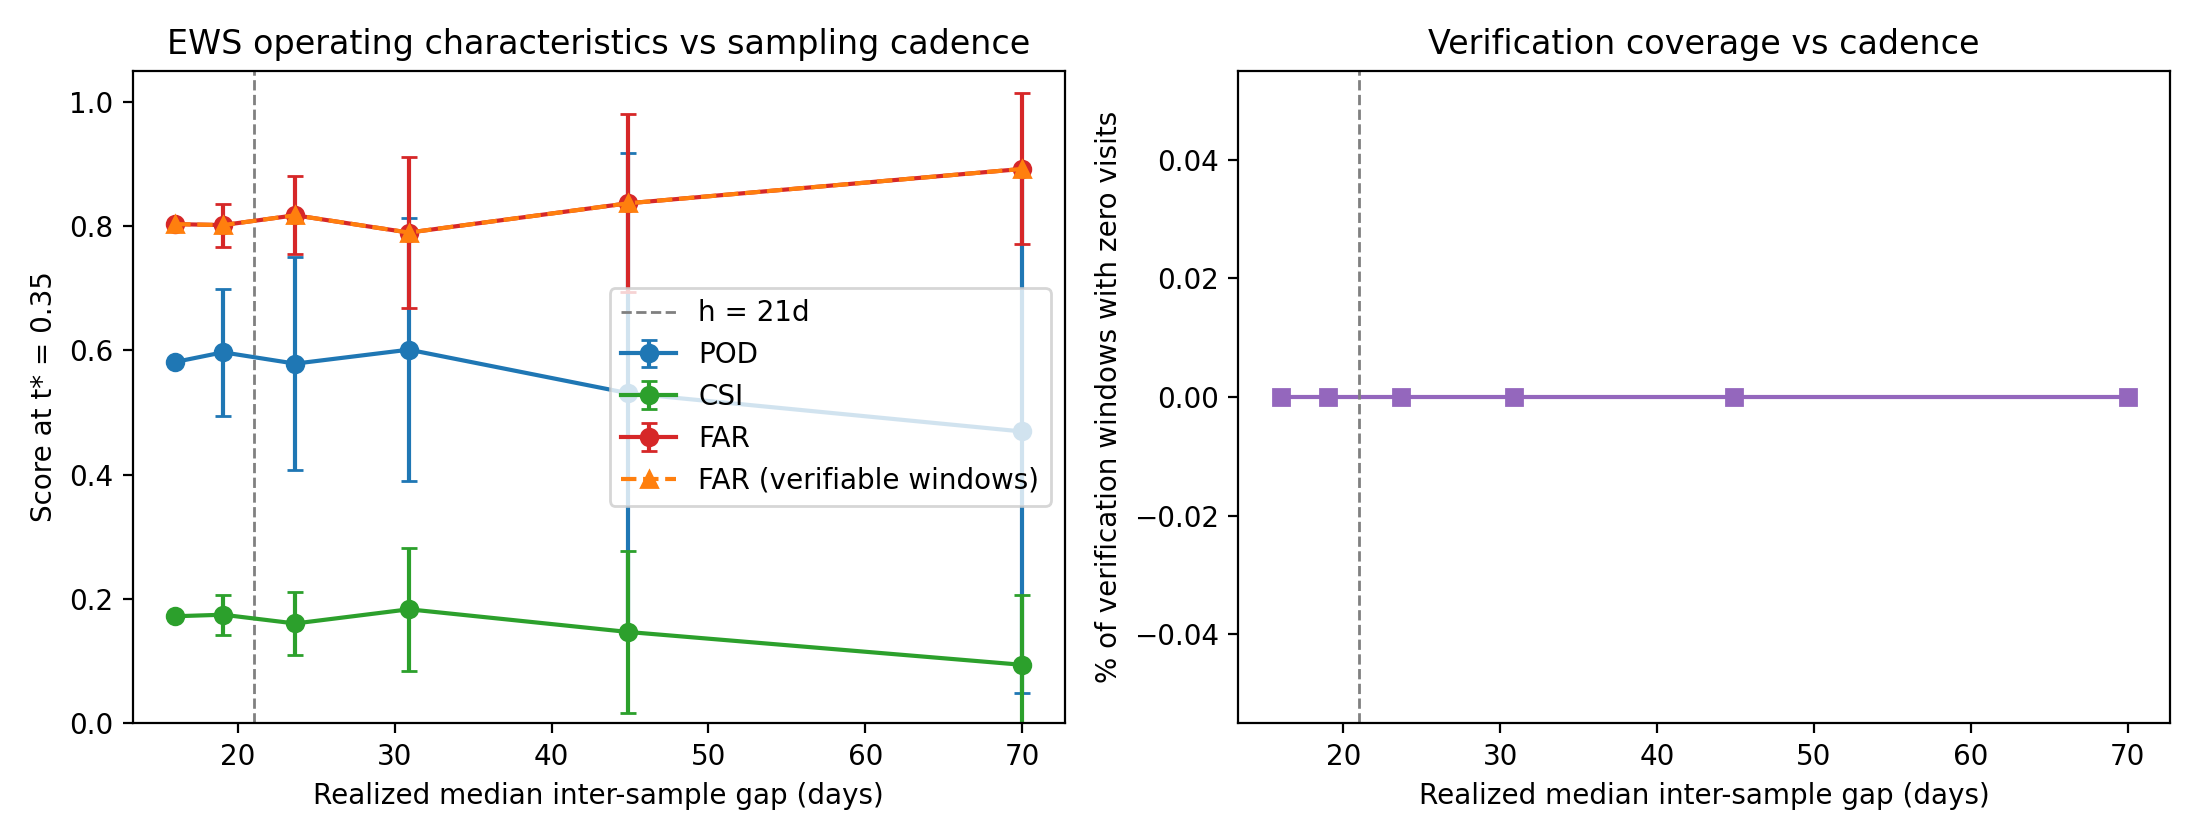
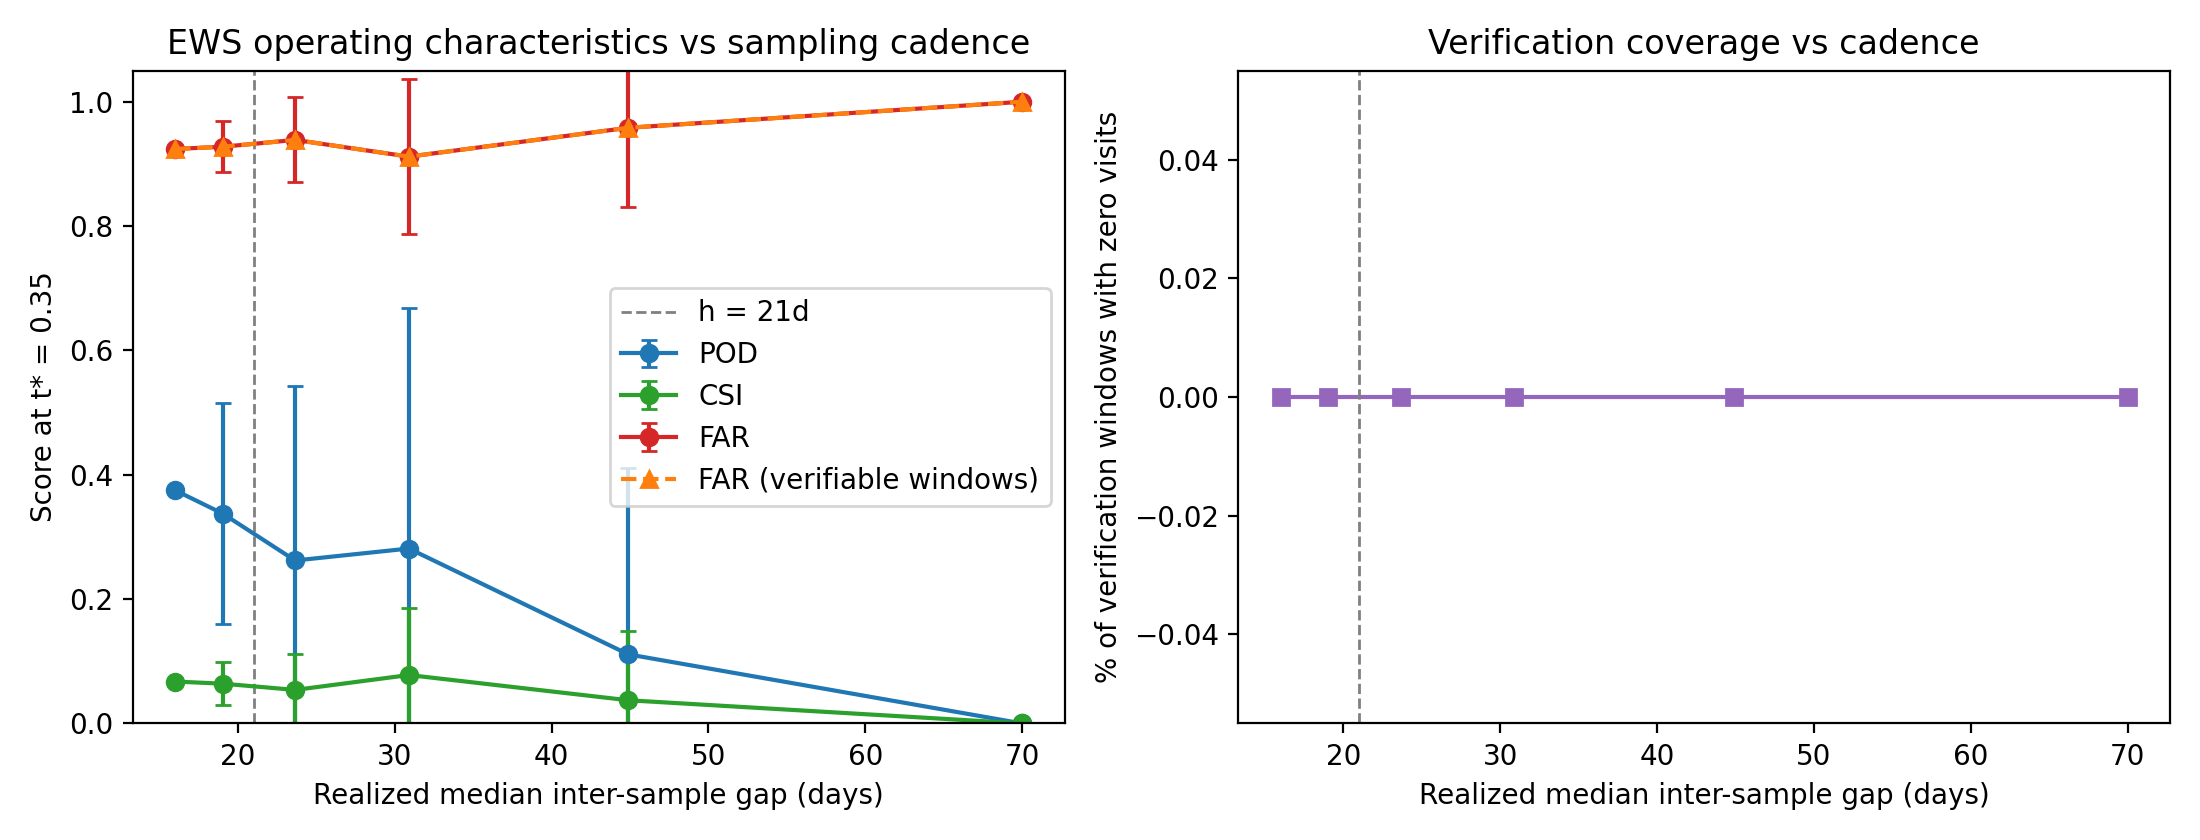
Rerun remaining LIS analyses on corrected 2024; audit wording fixes (casts, post hoc p, labels)
Claude-Session: https://claude.ai/code/session_019qugKZoFUV2rvdqeagrEFM

diff --git a/src/models/station_specific_models.py b/src/models/station_specific_models.py
@@ -152,7 +152,7 @@ _p_te_all, _y_te_all = global_probs(test)
 print(f"Global model fitted on {len(Xg_tr):,} train rows "
       f"({yg_tr.mean()*100:.1f}% bloom). "
       f"Global test AUC = {roc_auc_score(_y_te_all, _p_te_all):.4f} "
-      f"(pipeline reference ~0.814).")
+      f"(pipeline reference 0.590, notes/S1_NUMBERS_SHEET.md).")
 
 # ---------------------------------------------------------------------------
 # 5. Per-station evaluation
@@ -212,7 +212,7 @@ for station in WESTERN_STATIONS:
     print(f"    @best : P={A_best['precision']:.3f} R={A_best['recall']:.3f} "
           f"F1={A_best['f1']:.3f} AUC={A_best['auc']:.3f} "
           f"(TP={A_best['tp']} FP={A_best['fp']} FN={A_best['fn']})")
-    print(f"    @0.60 : P={A_60['precision']:.3f} R={A_60['recall']:.3f} "
+    print(f"    @0.47 : P={A_60['precision']:.3f} R={A_60['recall']:.3f} "
           f"F1={A_60['f1']:.3f} "
           f"(TP={A_60['tp']} FP={A_60['fp']} FN={A_60['fn']})")
 
@@ -229,7 +229,7 @@ for station in WESTERN_STATIONS:
     print(f"    @best : P={B_best['precision']:.3f} R={B_best['recall']:.3f} "
           f"F1={B_best['f1']:.3f} AUC={B_best['auc']:.3f} "
           f"(TP={B_best['tp']} FP={B_best['fp']} FN={B_best['fn']})")
-    print(f"    @0.60 : P={B_60['precision']:.3f} R={B_60['recall']:.3f} "
+    print(f"    @0.47 : P={B_60['precision']:.3f} R={B_60['recall']:.3f} "
           f"F1={B_60['f1']:.3f} "
           f"(TP={B_60['tp']} FP={B_60['fp']} FN={B_60['fn']})")
 
@@ -304,9 +304,9 @@ print("CONFUSION MATRIX DETAIL  (test 2023-2025)")
 print("=" * 72)
 print(f"{'Stn':>4} {'n+':>3} {'n':>4} | "
       f"{'A@best':>8}  {'TP':>3} {'FP':>3} {'FN':>3} | "
-      f"{'A@0.60':>8}  {'TP':>3} {'FP':>3} {'FN':>3} | "
+      f"{'A@0.47':>8}  {'TP':>3} {'FP':>3} {'FN':>3} | "
       f"{'B@best':>8}  {'TP':>3} {'FP':>3} {'FN':>3} | "
-      f"{'B@0.60':>8}  {'TP':>3} {'FP':>3} {'FN':>3}")
+      f"{'B@0.47':>8}  {'TP':>3} {'FP':>3} {'FN':>3}")
 print("-" * 100)
 for st in WESTERN_STATIONS:
     if st not in per_station:
@@ -351,7 +351,7 @@ print("COMBINED ACROSS WESTERN STATIONS  (pooled test rows)")
 print("=" * 72)
 print(f"{'Approach':<42} {'Prec':>6} {'Rec':>6} {'F1':>6} {'TP':>4} {'FP':>4} {'FN':>4}")
 print("-" * 72)
-print(f"{'Global model @0.60 (western subset)':<42} "
+print(f"{'Global model @0.47 (western subset)':<42} "
       f"{g_60['precision']:>6.3f} {g_60['recall']:>6.3f} {g_60['f1']:>6.3f} "
       f"{g_60['tp']:>4} {g_60['fp']:>4} {g_60['fn']:>4}")
 print(f"{'Strategy A: station-only @ station-best t':<42} "
@@ -372,8 +372,8 @@ for st in WESTERN_STATIONS:
     if st not in per_station:
         continue
     r = per_station[st]
-    for strat, key in [('A@best', 'A_best'), ('A@0.60', 'A_60'),
-                       ('B@best', 'B_best'), ('B@0.60', 'B_60')]:
+    for strat, key in [('A@best', 'A_best'), ('A@0.47', 'A_60'),
+                       ('B@best', 'B_best'), ('B@0.47', 'B_60')]:
         m = r[key]
         if m['precision'] > 0.50 and m['recall'] > 0.40:
             hits.append((st, strat, m['precision'], m['recall'], m['f1']))
@@ -389,8 +389,8 @@ else:
         if st not in per_station:
             continue
         r = per_station[st]
-        for strat, key in [('A@best', 'A_best'), ('A@0.60', 'A_60'),
-                           ('B@best', 'B_best'), ('B@0.60', 'B_60')]:
+        for strat, key in [('A@best', 'A_best'), ('A@0.47', 'A_60'),
+                           ('B@best', 'B_best'), ('B@0.47', 'B_60')]:
             m = r[key]
             if m['recall'] > 0.40:
                 cand.append((m['precision'], st, strat, m['recall'], m['f1']))

diff --git a/notes/SCIENTIFIC_METHOD.md b/notes/SCIENTIFIC_METHOD.md
@@ -1049,4 +1049,5 @@ exactly from `final_evaluation_threshold_sweep.py`):
 - **Layout:** two loop runs at once, 28 tanks (each culture gets its own arm A and 2 pilot tanks; 23 if both screens pick the same culture). Updated: `00_CONTROL_LOOP.md`, `01_BUBBLES.md`, `03_PEROXIDE_BAG.md`, `PROCEDURES.md`, `MATERIALS_LIST.md`, Form 3; `02`, `04`, `05` carry a "Dropped" banner.
 - **Results:** none yet (no bench work has started).
 
-**2024 put on the lab scale (2026-10-02).** DEEP (M. Lyman) sent 2024 - Jul 2026 profile chlorophyll (raw and corrected) and lab chlorophyll a. DEEP's correction is an exact per-cruise line; it reproduces our 2025 corrected values with zero difference and our 2024 raw matches theirs on all 812 casts, so 2024 now uses it (`label_rebuild.fill_corrected`). Result: 2024 bloom days 13.3% → 4.1%; the 28-day test (2023-25) drops to AUC 0.590 [0.427, 0.757] on 25 events (2024 alone 0.952; 2023 0.433; 2025 0.537). The old 0.767 rested on raw-sensor 2024 "events". The pre-registered calendar test still passes over 2016-2025 (+0.088, p < 0.001); in 2023-25 the calendar is ahead (not significant). Conclusion unchanged and sharper: boat-sampled LIS data gives seasonal skill over the decade but not reliably in recent years; daily sensors (Narragansett) beat the calendar. The 2026 season is pre-registered as the first clean test (`notes/PROSPECTIVE_2026_PREREG.md`); 2022-23 corrected data and 2026 CTD profiles requested from DEEP.
+**2024 put on the lab scale (2026-10-02).** DEEP (M. Lyman) sent 2024 - Jul 2026 profile chlorophyll (raw and corrected) and lab chlorophyll a. DEEP's correction is an exact per-cruise line; it reproduces our 2025 corrected values with zero difference and our 2024 raw matches theirs on all 812 depth samples (362 casts), so 2024 now uses it (`label_rebuild.fill_corrected`). Result: 2024 bloom days 13.3% → 4.1%; the 28-day test (2023-25) drops to AUC 0.590 [0.427, 0.757] on 25 events (2024 alone 0.952; 2023 0.433; 2025 0.537). The old 0.767 rested on raw-sensor 2024 "events". The pre-registered calendar test still passes over 2016-2025 (+0.088, p < 0.001); in 2023-25 the calendar is ahead (not significant). Conclusion unchanged and sharper: boat-sampled LIS data gives seasonal skill over the decade but not reliably in recent years; daily sensors (Narragansett) beat the calendar. The 2026 season is pre-registered as the first clean test (`notes/PROSPECTIVE_2026_PREREG.md`); 2022-23 corrected data and 2026 CTD profiles requested from DEEP.
+- **Remaining LIS analyses rerun on corrected 2024 (2026-10-02, `data/rerun4_*.log`):** on the 28-day split the month-of-year baseline beats the model (AUC 0.698 vs 0.590; baseline > model, one-sided p ≈ 0.02, post hoc); decision value shows no demonstrated gain over calendar sampling; LR-geometry onset AUC 0.643. LIS forecasting claims now rest only on the 2016-2025 walk-forward edge; the forecasting headline is Narragansett. Device design adds autonomous accuracy checks (daily reference target, wiper, drift alarm) so calibration doesn't need a person between service visits.

diff --git a/notes/S1_NUMBERS_SHEET.md b/notes/S1_NUMBERS_SHEET.md
@@ -5,7 +5,7 @@
 **What changed.** DEEP (M. Lyman) sent profile chlorophyll, raw and corrected, for Jan 2024 - Jul 2026.
 - DEEP's correction is exactly linear per cruise. Those lines reproduce our 2025 `Corrected_Chlorophyll`
   with zero difference.
-- Our 2024 raw values equal DEEP's raw on all 812 casts.
+- Our 2024 raw values equal DEEP's raw on all 812 depth samples (362 casts).
 - `label_rebuild.py` now fills 2024 from these lines (`fill_corrected`). Corrected/lab median for 2024
   is 1.02.
 - The 2024 one-day share above 10 µg/L fell from 0.133 (raw sensor) to 0.041.
@@ -39,9 +39,29 @@
 **Hybrid:** still not adopted. On development folds the hybrid is below the locked model, −0.008
 (`data/rerun_2024fix_hybrid.log`).
 
-**Not yet rerun on the corrected 2024:** station-specific models, basin alert, decision value, LR
-geometry, point of no return, and the `warning_*` scripts (they read `cv_pred_orig_h21.csv`). Treat their
-numbers below as "(pre-2024-fix)".
+**Rerun on the corrected 2024 (2026-10-02, `data/rerun4_*.log`):**
+- **Significance, 28-day test** (683 rows, 25 events):
+  - Station-shift null p = 0.70; station-year (timing) null p = 0.51.
+  - **Month-of-year baseline AUC 0.698 vs model 0.590: −0.108 [−0.225, −0.008], p = 0.98.**
+  - Read the other way: baseline > model, one-sided p ≈ 0.02 (post hoc; not the pre-registered direction, and the CI bound is barely past 0).
+- **Station-specific, western five, t = 0.47:** global precision 0.188, recall 0.429 (3/7). A4 with its own
+  threshold: precision 0.50, recall 0.75. No station clears precision > 0.5 with recall > 0.4.
+- **Reference baselines, basin-day** (41 days, 3 events): model lift 1.52 vs persistence 1.95. All CIs
+  include 0.
+- **Basin alert** at t_basin = 0.55: POD 0.333 [0, 1], FAR 0.889 (TP 1 / FP 8 / FN 2).
+- **Decision value, 8 visits/month, LIS:** alert-directed 9.9 visits/bloom [4.8, 35.0] vs calendar 11.0
+  [4.7, 105.0]. The CIs overlap, so there is no demonstrated gain. (Narragansett: 1.4 vs 3.6.)
+- **LR geometry, 21-day onset rows:** LIS AUC 0.643, precision 0.037 at t* (30 events) vs Narragansett
+  0.806 / 0.638.
+- **Point of no return:** unchanged conclusion. No pre-onset row reaches analogue risk ≥ 0.6.
+- **Cadence thinning:** POD 0.375 at the full cadence, falling to 0 at a 70-day gap.
+- **Warning operating point, 21-day test 2023-25, t* = 0.20** (560 rows, 16 events): POD 0.562, FAR 0.965,
+  precision 0.035.
+- **Warning robustness:** rerun with `--t-star 0.20`; per-station table in `data/warning_robustness.csv`.
+- **Reading:**
+  - On the corrected label, LIS boat data show no recent skill beyond the calendar.
+  - The only robust LIS result is the 2016-2025 walk-forward edge (+0.088, p < 0.001).
+  - Narragansett carries the forecasting claim.
 
 **Clean test ahead:** `notes/PROSPECTIVE_2026_PREREG.md` (2026 season, pre-registered 2026-10-02).
 

diff --git a/notes/PROSPECTIVE_2026_PREREG.md b/notes/PROSPECTIVE_2026_PREREG.md
@@ -7,7 +7,7 @@ project could not have tuned to.
 
 **What we already know (disclosed).** While checking the files we computed only summary statistics
 of the 2026 chlorophyll itself, never a model score:
-- 133 surface lab-profile pairs; corrected/lab median 0.99;
+- 133 surface lab-profile pairs (profile S row joined to the mean of that station-day's lab surface samples; clarified 2026-10-02, numbers unchanged); corrected/lab median 0.99;
 - 3.8% of corrected surface values and 3.0% of lab values are above 10 µg/L.
 
 So 2026 so far is a low-bloom season, and the test will have few events.
